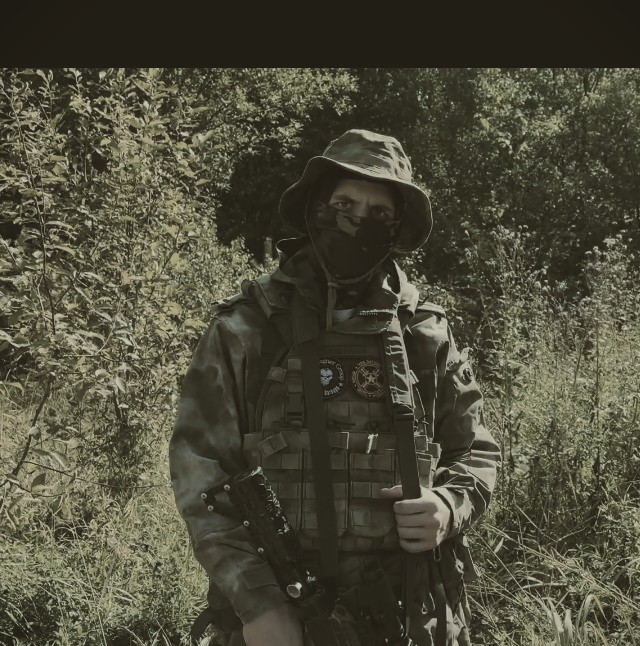
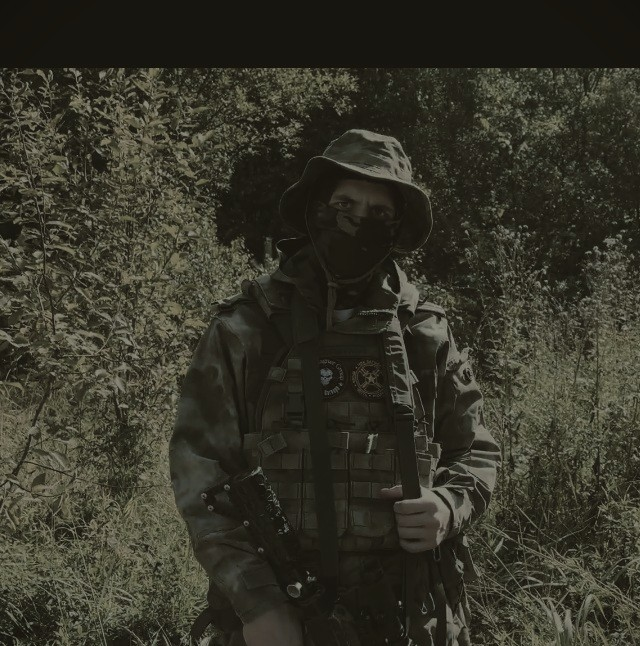
update bacgraund images for pages

diff --git a/SquadApplication/ViewCustom/OrderPage.xaml b/SquadApplication/ViewCustom/OrderPage.xaml
@@ -2,22 +2,31 @@
 <ContentPage xmlns="http://schemas.microsoft.com/dotnet/2021/maui"
              xmlns:x="http://schemas.microsoft.com/winfx/2009/xaml"
              x:Class="SquadApplication.ViewCustom.OrderPage"
-             BackgroundImageSource="hkauthorize.jpg"
+             BackgroundImageSource="updateprofileandequip.jpg"
              Title="OrderPage">
-    <VerticalStackLayout>
+    <VerticalStackLayout
+        BackgroundColor="#99809080"
+        >
         <Label 
             Text="Order"
-            TextColor="Aquamarine"
+            TextColor="WhiteSmoke"
             VerticalOptions="Center" 
             HorizontalOptions="Center" />
-        <StackLayout>
-            <Label Text="Введи название ,колл-во и цену за еденицу товара" TextColor="Aquamarine" HorizontalOptions="Center"/>
+        <StackLayout
+            BackgroundColor="#809080"
+            >
+            <Label
+                Opacity="1.0"
+                Text="Введи название ,колл-во и цену за еденицу товара"
+                TextColor="WhiteSmoke"
+                FontSize="16"
+                HorizontalOptions="Center"/>
                 
             <Border>
             <HorizontalStackLayout Margin="5">
-                <Entry x:Name="nameProduct" WidthRequest="100"  Placeholder="Name" PlaceholderColor="Gray" Text="{Binding Name}" TextColor="White"/>
-                    <Entry x:Name="priceProduct" WidthRequest="100" Placeholder="Price" PlaceholderColor="Gray" Text="{Binding Price}" TextColor="White" />
-                    <Entry x:Name="countProduct" WidthRequest="100" Placeholder="Count" PlaceholderColor="Gray" Text="{Binding Count}" TextColor="White"/>
+                <Entry x:Name="nameProduct" WidthRequest="100"  Placeholder="Name" PlaceholderColor="DarkGray" Text="{Binding Name}" TextColor="White"/>
+                    <Entry x:Name="priceProduct" WidthRequest="100" Placeholder="Price" PlaceholderColor="DarkGray" Text="{Binding Price}" TextColor="White" />
+                    <Entry x:Name="countProduct" WidthRequest="100" Placeholder="Count" PlaceholderColor="DarkGray" Text="{Binding Count}" TextColor="White"/>
                     <Button Command="{Binding AddProductCommand}"  Margin="4" Text="+1" />
                     <Button Command="{Binding ReduceProductCommand}" Margin="4"  Text="-1"/>
             </HorizontalStackLayout>

diff --git a/SquadApplication/ViewCustom/FeesPage.xaml b/SquadApplication/ViewCustom/FeesPage.xaml
@@ -3,12 +3,18 @@
              xmlns:x="http://schemas.microsoft.com/winfx/2009/xaml"
              x:Class="SquadApplication.ViewCustom.FeesPage"
              Title="FeesPage"
-             BackgroundImageSource="hkauthorize.jpg"
+             BackgroundImageSource="fess.jpg"
              >
-    <VerticalStackLayout>
+    <VerticalStackLayout
+        BackgroundColor="#50508080"
+        Opacity="1.0"
+        >
         
     
-    <Grid RowDefinitions="Auto,*,Auto"
+    <Grid
+        BackgroundColor="#50508080"
+        
+        RowDefinitions="Auto,*,Auto"
           Padding="15">
 
         <!-- Заголовок -->
@@ -161,7 +167,9 @@
                 <Button Margin="10" Text="Create" Command="{Binding CreateEventCommand}"></Button>
         </StackLayout>
                 
-        <Grid Grid.Row="2"
+        <Grid
+            BackgroundColor="#50508080"
+            Grid.Row="2"
               ColumnDefinitions="*,*"
               ColumnSpacing="10"
               IsVisible="True">
@@ -188,7 +196,9 @@
                     />
         </Grid>
     </Grid>
-    <StackLayout>
+    <StackLayout
+        BackgroundColor="#50508080"
+        >
                 
           <Border 
               Stroke="White"

diff --git a/SquadApplication/ViewCustom/YourEquipPage.xaml b/SquadApplication/ViewCustom/YourEquipPage.xaml
@@ -4,16 +4,18 @@
              xmlns:x="http://schemas.microsoft.com/winfx/2009/xaml"
              x:Class="SquadApplication.ViewCustom.YourEquipPage"
              Title="YourEquipPage!"
-             BackgroundImageSource="hkauthorize.jpg"
+             BackgroundImageSource="mainprofile.jpg"
              >
-    <VerticalStackLayout Margin="3">
+    <VerticalStackLayout 
+        BackgroundColor="#50808080"
+        Margin="3">
         <Label 
             TextColor="White"
             Text="Welcome to .NET MAUI!"
             VerticalOptions="Center" 
             HorizontalOptions="Center" />
         <Border                      
-            BackgroundColor="#50808080"
+            Opacity="1.0"
             Stroke="CadetBlue"   
             StrokeShape="10"
             StrokeThickness="2"

diff --git a/SquadApplication/ViewCustom/EditEquipmentPage.xaml b/SquadApplication/ViewCustom/EditEquipmentPage.xaml
@@ -2,9 +2,12 @@
 <ContentPage xmlns="http://schemas.microsoft.com/dotnet/2021/maui"
              xmlns:x="http://schemas.microsoft.com/winfx/2009/xaml"
              x:Class="SquadApplication.ViewCustom.EditEquipmentPage"
-             BackgroundImageSource="hkauthorize.jpg"
+             BackgroundImageSource="updateprofileandequip.jpg"
              Title="EditEquipmentPage">
-    <VerticalStackLayout Padding="10" Margin="10">
+    <VerticalStackLayout
+        BackgroundColor="#50808080"
+        Padding="10"
+        Margin="10">
             <Border>
                    <HorizontalStackLayout Padding="10" Margin="10">
                        <Label Text="MainWeapon" TextColor="AliceBlue" FontSize="20"/>

diff --git a/SquadApplication/ViewCustom/ParticipantsPage.xaml b/SquadApplication/ViewCustom/ParticipantsPage.xaml
@@ -3,9 +3,14 @@
              xmlns:x="http://schemas.microsoft.com/winfx/2009/xaml"
              x:Class="SquadApplication.ViewCustom.ParticipantsPage"
              Title="ParticipantsPage"
-             BackgroundImageSource="hkauthorize.jpg"
+             BackgroundImageSource="players.jpg"
              >
-    <StackLayout Padding="5" HorizontalOptions="Center" VerticalOptions="Start">
+        
+    <StackLayout
+        BackgroundColor="#50809080"
+        Padding="5"
+        HorizontalOptions="Center"
+        VerticalOptions="Start">
         <Label Text="Участники" FontSize="24" HorizontalOptions="Center" VerticalOptions="Start"/>
         <ScrollView>     
             

diff --git a/SquadApplication/ViewCustom/EditUserProfilePage.xaml b/SquadApplication/ViewCustom/EditUserProfilePage.xaml
@@ -2,9 +2,11 @@
 <ContentPage xmlns="http://schemas.microsoft.com/dotnet/2021/maui"
              xmlns:x="http://schemas.microsoft.com/winfx/2009/xaml"
              x:Class="SquadApplication.ViewCustom.EditUserProfilePage"
-             BackgroundImageSource="hkauthorize.jpg"
+             BackgroundImageSource="updateprofileandequip.jpg"
              Title="EditUserProfilePage">
-    <VerticalStackLayout>
+    <VerticalStackLayout
+        BackgroundColor="#90808080"
+        >
         <Border>
             <HorizontalStackLayout Padding="10" Margin="10">
                 <Label Text="Имя" TextColor="AliceBlue" FontSize="20"/>

diff --git a/SquadApplication/ViewCustom/PolygonsPage.xaml b/SquadApplication/ViewCustom/PolygonsPage.xaml
@@ -2,9 +2,12 @@
 <ContentPage xmlns="http://schemas.microsoft.com/dotnet/2021/maui"
              xmlns:x="http://schemas.microsoft.com/winfx/2009/xaml"
              x:Class="SquadApplication.ViewCustom.PolygonsPage"
-             BackgroundImageSource="hkauthorize.jpg"
+             BackgroundImageSource="polygons.jpg"
              Title="PolygonsPage">
-    <VerticalStackLayout x:Name="loyoutItem" Padding="10">        
+    <VerticalStackLayout
+        BackgroundColor="#90808080"
+        x:Name="loyoutItem"
+        Padding="10">        
         <ScrollView>
             <StackLayout >
                 <Button 

diff --git a/SquadApplication/ViewCustom/RentalsPage.xaml b/SquadApplication/ViewCustom/RentalsPage.xaml
@@ -2,11 +2,10 @@
 <ContentPage xmlns="http://schemas.microsoft.com/dotnet/2021/maui"
              xmlns:x="http://schemas.microsoft.com/winfx/2009/xaml"
              x:Class="SquadApplication.ViewCustom.RentalsPage"
+             BackgroundImageSource="rentails.jpg"
              Title="RentalsPage">
-    <VerticalStackLayout>
-        <Label 
-            Text="Welcome to .NET MAUI!"
-            VerticalOptions="Center" 
-            HorizontalOptions="Center" />
+    <VerticalStackLayout
+        BackgroundColor="#50508080"
+        >
     </VerticalStackLayout>
 </ContentPage>

diff --git a/SquadApplication/ViewCustom/CreateEventPage.xaml b/SquadApplication/ViewCustom/CreateEventPage.xaml
@@ -2,9 +2,11 @@
 <ContentPage xmlns="http://schemas.microsoft.com/dotnet/2021/maui"
              xmlns:x="http://schemas.microsoft.com/winfx/2009/xaml"
              x:Class="SquadApplication.ViewCustom.CreateEventPage"
-             BackgroundImageSource="hkauthorize.jpg"
+             BackgroundImageSource="createevent.jpg"
              Title="CreateEventPage">
-    <VerticalStackLayout>
+    <VerticalStackLayout
+         Background="#90808080"
+        >
         <Label 
             Text="Create Event"
             TextColor="White"
